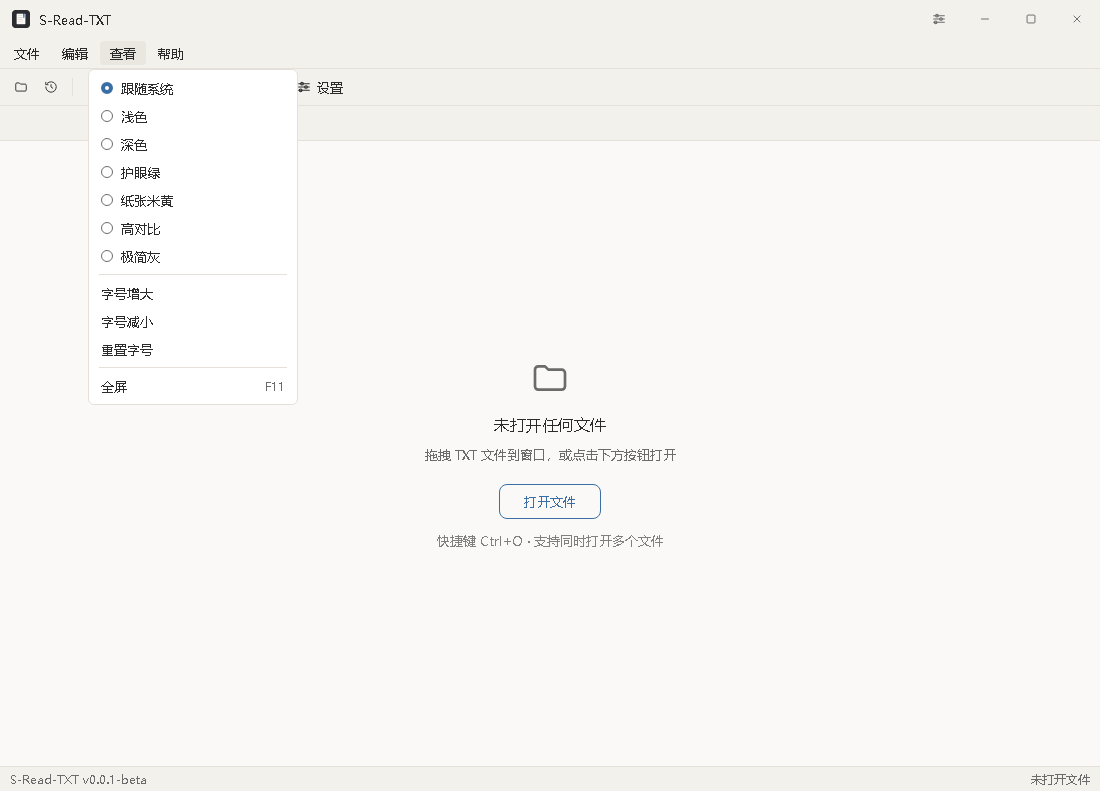
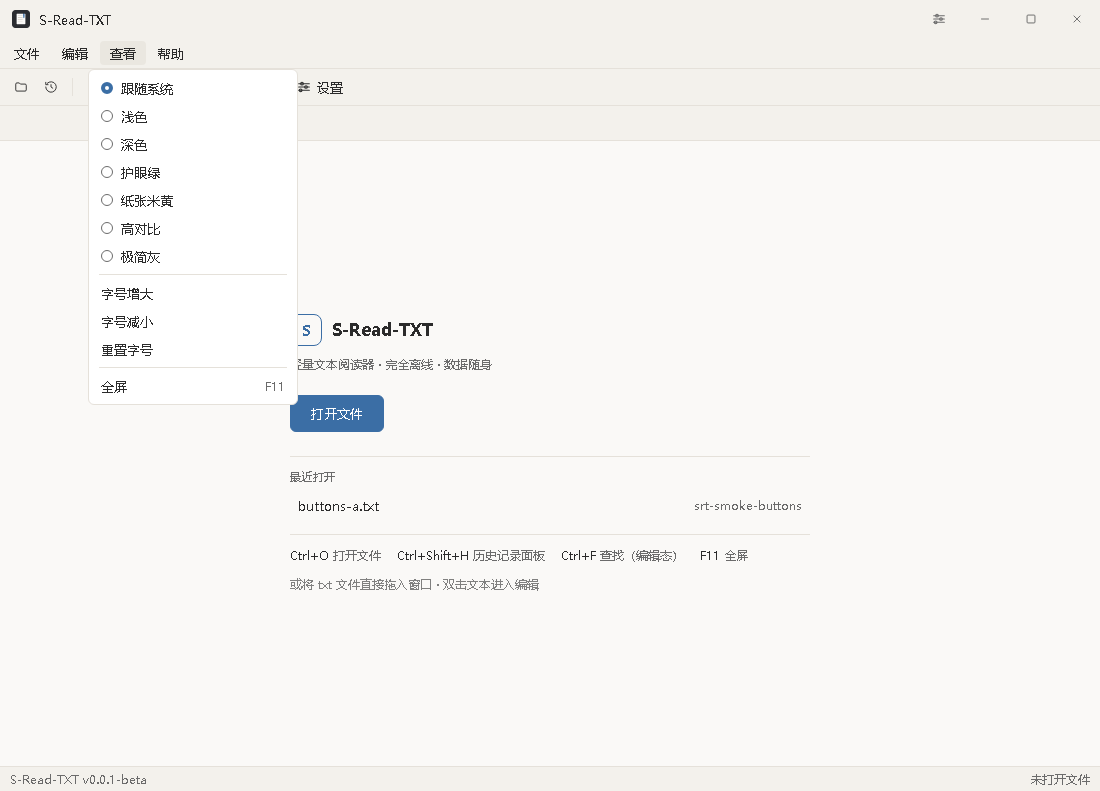
docs(ai): P0-7 欢迎页文档与矩阵更新

diff --git a/docs/verify/coverage-matrix.md b/docs/verify/coverage-matrix.md
@@ -2,7 +2,7 @@
 
 - 维护规则：**任何新增命令 / 设置项 / 错误码 / 功能域必须在本表登记测试引用**；`node scripts/verify-all.mjs` 全绿为放行前提。
 - 测试层级：Rust 单测（`cargo test`）｜前端单测（`vitest`）｜E2E（`scripts/smoke-*.mjs`，真实应用 + CDP）｜专项脚本（`stress` / `measure-startup` / `offline-check`）｜CI 门禁（`.github/workflows/ci.yml`）。
-- 计数口径：Rust 315（293 lib + 15 对抗 + 2 助手 + 5 集成）；vitest 88；E2E 23 套 ≈373 项；verify-all 26 步。
+- 计数口径：Rust 315（293 lib + 15 对抗 + 2 助手 + 5 集成）；vitest 88；E2E 23 套 ≈374 项；verify-all 26 步。
 
 ## 1. E2E 套件清单（verify-all 串行执行）
 
@@ -13,7 +13,7 @@
 | smoke-ime | 7 | 输入法组合：preedit/候选/提交/取消/保存 |
 | smoke-i18n | 27 | 8 语言渲染/查找/替换/编码往返/切换 |
 | smoke-titlebar | 10 | 标题栏：拖拽/三键/双击/最小化/主题/齿轮入口 |
-| smoke-buttons | 32 | 全按钮审计：工具栏/菜单/标签栏/状态栏/退出流 |
+| smoke-buttons | 33 | 全按钮审计：欢迎页区块/工具栏/菜单/标签栏/状态栏/退出流 |
 | smoke-settings | 48 | 设置窗口全控件：常规/排版/字体导入/开关/页签 |
 | smoke-shortcuts | 30 | 快捷键：固定键/循环/翻页/全屏/录制/持久化/模态挂起 |
 | smoke-tabs | 10 | 多标签：顺序/中键/拖拽/菜单/上限/溢出滚轮/拖拽取消 |
@@ -96,6 +96,7 @@
 | P0-4 设置 UI v2（**完成**：注册表驱动动态生成、分组卡片+折叠、全局搜索、单项/分组/全部恢复默认、导入/导出界面、语言下拉即时切换；data-setting 契约 = 完整设置项 id） | smoke-settings-v2 V1–V10；smoke-settings 48/48；smoke-limits L6 / smoke-scroll D 选择器迁移后全绿 |
 | P0-5 主题系统 v2（**完成**：7 套 = system + 6 文件化内置、单主题驻留缓存、导入/导出/删除用户主题、切换过渡动画、挂载前令牌预载防闪烁、schema v3 迁移 eye→paper-cream、设置窗主题行 + 工具栏/菜单主题菜单） | smoke-theme T1–T10；theme.rs 单测 9 项（内置解析/校验拒绝/导入导出/删除规则/系统解析与驻留）；check-theme-contrast 全通过 |
 | P0-6 背景图（**完成**：文件级管理（png/jpg/jpeg/webp ≤10MB、单文件驻留、防穿越）；`reader.background.*` 六项设置与注册表校验（含负值范围）；工作区图层渲染（data URL、填充/重复/模糊/亮度、缺失优雅降级）；设置「背景图」分组行；`save_settings` 命令统一广播（原设置窗自广播移除） | smoke-bg B1–B9（10 项）；Rust background 6 项 + 注册表负值 1 项；回归 settings 48/settings-v2 10/settings-io 24/theme 10 |
+| P0-7 欢迎页/空状态改版（**完成**：品牌区 + 主按钮 + 最近打开（≤3 条直达）+ 生效快捷键提示行 + 拖拽/编辑提示；「新建文件/载入示例文本」待 P3 功能落地后加入） | smoke-buttons B2；settings-io L6 保持；按已确认设计稿实现 |
 | P0-3 i18n 前端（**已收口**：设置窗口经 P0-4 重写为 i18n 原生 + 语言下拉） | 见 P0-4 |
 | 性能套件（stress / measure-startup / memory-report） | 手动执行（时长与负载原因不入 verify-all），结论入 docs/test-report.md |
 | 覆盖率度量（llvm-cov / vitest coverage） | 待评估 GNU 工具链可行性；当前以「表面覆盖 + 本矩阵」为准 |
@@ -103,6 +104,7 @@
 
 ## 6. 变更记录
 
+- 2026-10-03 P0-7：欢迎页/空状态按已确认设计稿改版（品牌区/主按钮/最近打开直达/生效快捷键提示行/拖拽与编辑提示）；「新建文件 / 载入示例文本」待 P3 功能落地后加入；smoke-buttons 增至 33/33。
 - 2026-10-03 P0-6：背景图（文件级管理 + 单文件驻留；`reader.background.*` 设置与注册表校验（含负值范围）；工作区背景图层（data URL/填充/模糊/亮度，缺失降级）；`save_settings` 命令统一广播设置变更（修复直接 invoke 无广播的缺口）；smoke-bg 10/10 并入 verify-all）。
 - 2026-10-03 P0-5：主题系统 v2（6 套内置文件化 JSON + `system` 伪主题；单主题驻留缓存；导入/导出/删除用户主题（强校验）；切换过渡动画（尊重减少动态效果）；挂载前令牌预载防闪烁；schema v3 迁移 `eye`→`paper-cream`；工具栏/查看菜单主题菜单 + 设置「阅读排版」主题行；smoke-theme 10/10 并入 verify-all）。
 - 2026-10-03 P0-10：数据目录迁移（复制校验→写指针→延迟清理；`config.json` 指针优先级、`migrate_data_dir`/`restart_app` 命令、设置「数据位置」卡片；smoke-migrate 13/13 并入 verify-all）。

diff --git a/docs/plan/progress.md b/docs/plan/progress.md
@@ -363,3 +363,4 @@ estart_app + 错误码 MIGRATE_FAILED；设置窗新增 DataSection.svelte（当
 eader.json 主题升级为 id（v3 迁移 eye→paper-cream）+ themeAnimEnabled/themeAnimMs；命令 5 个（THEME_INVALID）；启动背景色改取解析后 base 令牌；前端 lib/theme.ts（令牌→CSS 变量、data-theme-base、过渡动画类、减少动态效果）+ main.ts 挂载前预载（防闪烁）+ ThemeMenu（工具栏）+ 查看菜单动态主题项 + 设置「阅读排版」主题行（导入/导出/删除，用户主题）；smoke-theme **10/10**（默认/六套/系统/重启预载/导入应用/删除/非法拒绝/内置删除拒绝/动画类/截图）并入 verify-all（现 **25 步**）；回归：settings 48/48、settings-v2 10/10、settings-io 24/24、titlebar 10/10、buttons 32/32；cargo **308**（286 lib+15+2+5）。
 - **P0-6 背景图（完成）**：src-tauri/src/background.rs（png/jpg/jpeg/webp ≤10MB、单文件驻留、防穿越；6 单测）；
 eader.rs BackgroundSettings/BackgroundFill + defaults；store 归一；registry 6 项（含负值范围校验 is_i64 改造）+ 负值范围测试；命令 set/clear/read_background_image（BACKGROUND_INVALID，base64 返回）；前端 App 工作区图层（data URL + 填充/重复/透明度/模糊/亮度，缺失优雅降级）+ 设置窗 BackgroundRow（选择/移除/恢复默认）+ i18n（中英 30+ 键）；**save_settings 命令统一广播设置变更**（后端 emit，设置窗 store 不再自广播）；smoke-bg **10/10** 并入 verify-all（现 **26 步**）；回归 settings 48/48、settings-v2 10/10、settings-io 24/24、theme 10/10；cargo **315**（293 lib+15+2+5）、vitest 88、svelte-check 0/0。
+- **P0-7 欢迎页（完成）**：EmptyState 重制（品牌区/主按钮/最近打开≤3 条点击直达/生效快捷键提示行（取 shortcuts 绑定）/拖拽与编辑提示）；「新建文件·载入示例文本」按钮待 P3 功能落地后加入（不展示无效按钮）；App 传入 recentEntries/shortcuts；i18n 键更新（empty.tagline/recent/note，移除旧 title/hint/shortcutHint）；smoke-buttons +B2 → **33/33**；settings-io 24/24、bg 10/10 回归通过；svelte-check 0/0、vitest 88/88。

diff --git a/CHANGELOG.md b/CHANGELOG.md
@@ -6,6 +6,7 @@
 
 ### 新增
 
+- 欢迎页改版（P0-7）：空状态按设计稿重制——品牌区、打开按钮、最近打开（前 3 条直达）、生效快捷键提示行、拖拽与编辑提示
 - 背景图（P0-6）：支持 png / jpg / jpeg / webp（≤10MB，复制到数据目录、单文件驻留）；不透明度 / 填充方式（覆盖·包含·拉伸·平铺）/ 模糊 / 亮度可调；文件缺失自动降级；设置「背景图」分组可视化配置
 - 主题系统 v2（P0-5）：7 套主题（跟随系统 + 浅色/深色/护眼绿/纸张米黄/高对比/极简灰，文件化且单主题驻留）；工具栏与查看菜单主题菜单；自定义主题导入/导出/删除；主题切换过渡动画（可关/可调，尊重系统「减少动态效果」）；切换无闪烁（挂载前预载令牌）
 - 数据目录迁移（P0-10）：设置「常规 → 数据位置」可将数据迁移到自定义目录（复制校验、写入 config.json 指针、重启后生效；被占用文件跳过、旧目录延迟自动清理；可一键立即重启）
